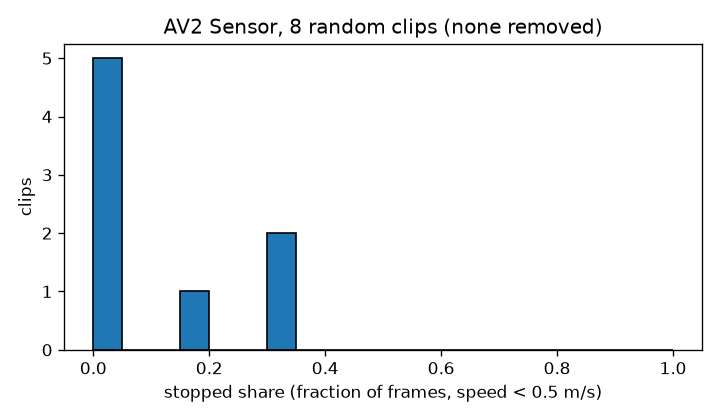
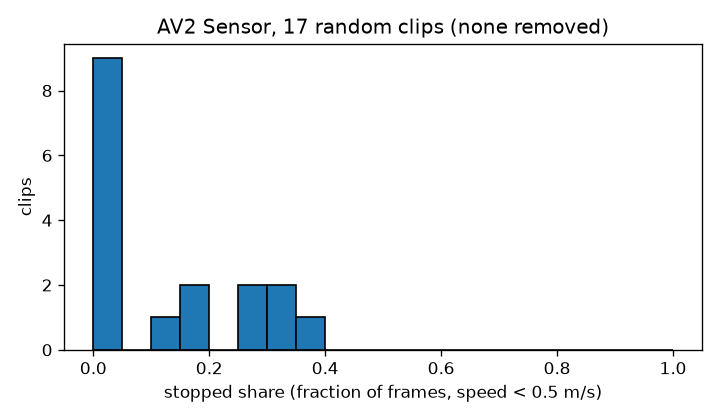
progress: 17 clips

diff --git a/results/results.md b/results/results.md
@@ -1,41 +1,41 @@
-# G5 Block 1 results (8 AV2 Sensor clips, ring_front_center, COLMAP fixed setting)
+# G5 Block 1 results (17 AV2 Sensor clips, ring_front_center, COLMAP fixed setting)
 
-Failure labels: none 3, ok 3, plausible_wrong 2  -> failure rate 0.625 (5/8)
+Failure labels: ok 8, none 5, plausible_wrong 3, drifted 1  -> failure rate 0.529 (9/17)
 
 ## Checks
 
 | Check | Result | Verdict |
 |---|---|---|
-| a) clips with >95% frames registered | 0.625 (5/8) | premise alive (<=0.90) |
-| b) pose-log LR AUC (10x5-fold CV OOF, bootstrap 95% CI) | 0.800 [0.283, 1.000] (per-repeat range 0.733-0.867) | PASS |
-| c) any single shortcut AUC within/above pose-log CI? | best: clip length, frames AUC 0.800 | YES |
-| d) failure rate all vs stopped<=50% clips | 0.625 (n=8) vs 0.625 (n=8); relative drop 0.0% | does NOT drop by 1/3 |
+| a) clips with >95% frames registered | 0.706 (12/17) | premise alive (<=0.90) |
+| b) pose-log LR AUC (10x5-fold CV OOF, bootstrap 95% CI) | 0.722 [0.439, 0.971] (per-repeat range 0.625-0.792) | FAIL (<0.75) |
+| c) any single shortcut AUC within/above pose-log CI? | best: clip length, metres driven AUC 0.653 | YES |
+| d) failure rate all vs stopped<=50% clips | 0.529 (n=17) vs 0.529 (n=17); relative drop 0.0% | does NOT drop by 1/3 |
 
-Random baseline at same failure rate: AUC mean 0.505, 95% interval [0.067, 0.933]
+Random baseline at same failure rate: AUC mean 0.498, 95% interval [0.222, 0.764]
 
 ## Single-feature AUCs (shortcuts; a-priori direction, plus orientation-free max(AUC,1-AUC))
 
 | Feature | AUC | 95% CI | max(AUC,1-AUC) | within/above pose-log CI |
 |---|---|---|---|---|
-| stopped share (static_fraction_fullrate) | 0.600 | [0.167, 0.917] | 0.600 | True |
-| clip length, frames | 0.800 | [0.500, 1.000] | 0.800 | True |
-| clip length, metres driven | 0.733 | [0.333, 1.000] | 0.733 | True |
-| blur (-Laplacian variance) | 0.400 | [0.000, 0.833] | 0.600 | True |
-| darkness (-mean brightness) | 0.733 | [0.286, 1.000] | 0.733 | True |
+| stopped share (static_fraction_fullrate) | 0.528 | [0.250, 0.795] | 0.528 | True |
+| clip length, frames | 0.604 | [0.400, 0.792] | 0.604 | True |
+| clip length, metres driven | 0.653 | [0.347, 0.939] | 0.653 | True |
+| blur (-Laplacian variance) | 0.375 | [0.086, 0.686] | 0.625 | True |
+| darkness (-mean brightness) | 0.583 | [0.278, 0.861] | 0.583 | True |
 | night flag | 0.500 | [0.500, 0.500] | 0.500 | True |
 
 ## Single pose features (raw AUC, higher value = failure)
 
 | Feature | AUC |
 |---|---|
-| baseline_to_depth | 0.867 |
-| epipolar_angle_deg | 0.000 |
-| rot_trans_ratio | 0.067 |
-| static_fraction | 0.600 |
-| traj_planarity | 0.267 |
-| traj_collinearity | 0.000 |
-| parallax_coverage | 0.800 |
+| baseline_to_depth | 0.764 |
+| epipolar_angle_deg | 0.194 |
+| rot_trans_ratio | 0.167 |
+| static_fraction | 0.528 |
+| traj_planarity | 0.333 |
+| traj_collinearity | 0.167 |
+| parallax_coverage | 0.681 |
 
-Stopped-share histogram: results/stopped_share_hist.png. Clips with stopped share > 0.5: 0; = 0: 5; median 0.000.
+Stopped-share histogram: results/stopped_share_hist.png. Clips with stopped share > 0.5: 0; = 0: 9; median 0.000.
 
-Median over clips: reg share 1.000, models 1.0, reproj 0.685 px, track len 7.04, ATE 0.04 m, scale error |log s1/s2| 0.005
+Median over clips: reg share 1.000, models 1.0, reproj 0.729 px, track len 7.27, ATE 0.07 m, scale error |log s1/s2| 0.005
